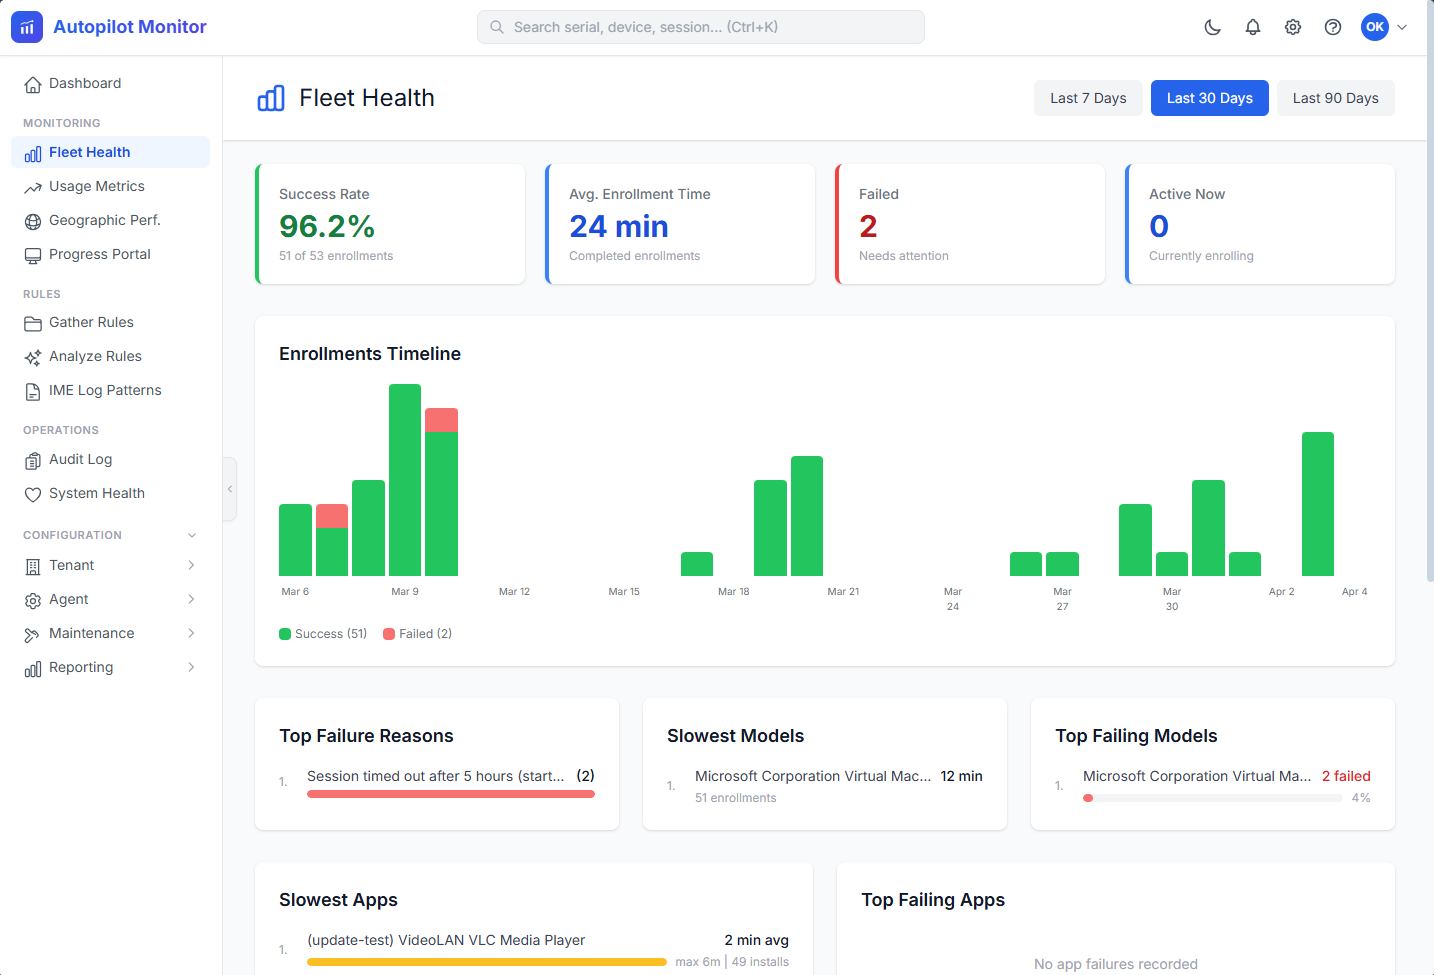
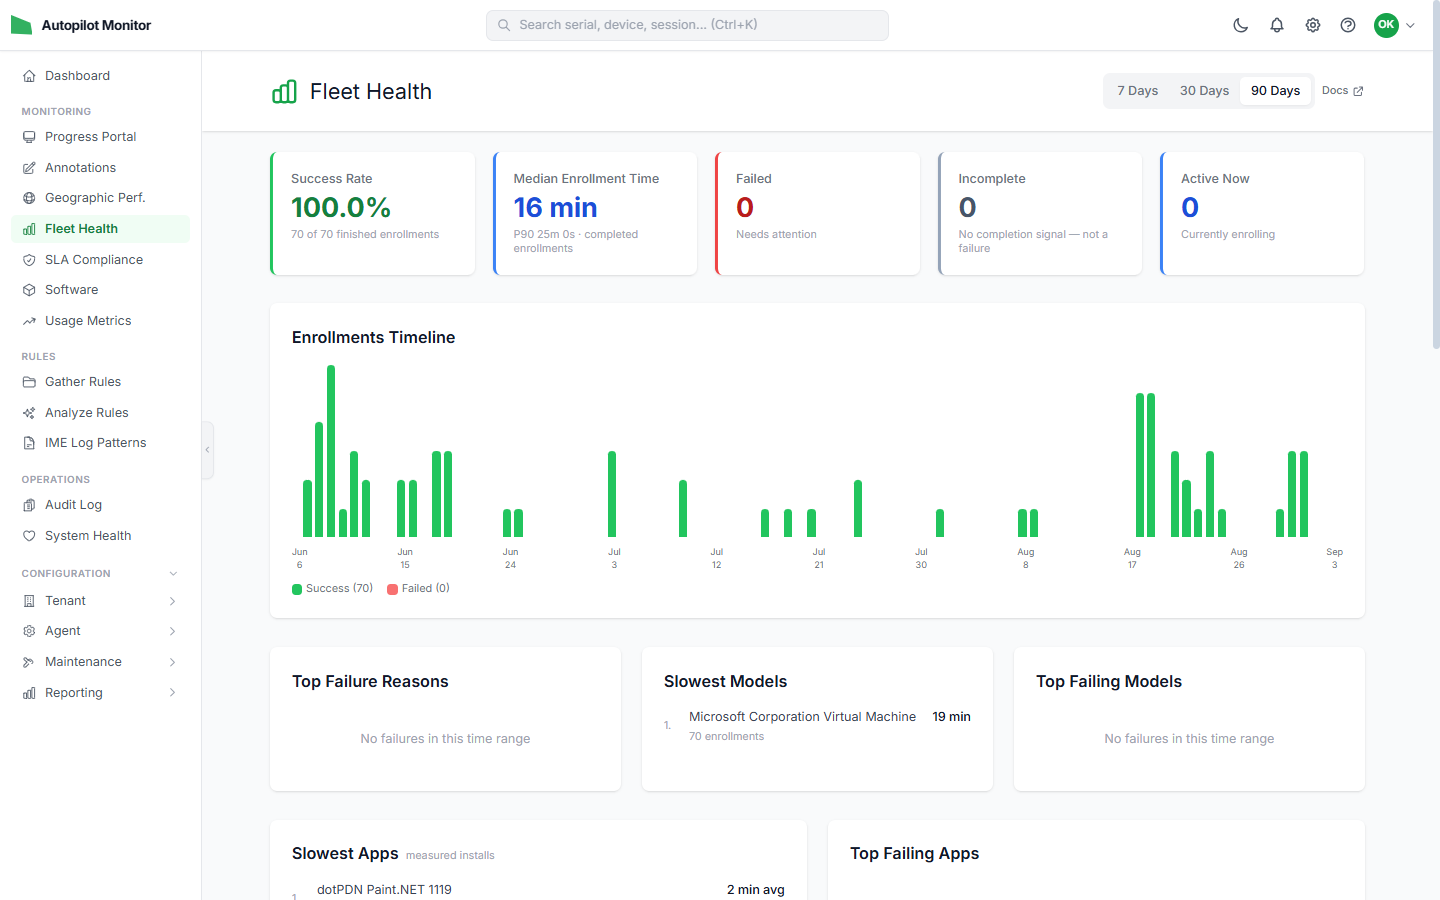
docs(readme): refresh screenshots, add social preview source
The four README screenshots were still from the private preview (old blue
logo, preview banner). Retaken in the light theme with the current logo,
tenant view only, no banner. Fleet Health uses the 90-day window; the geo
map has too few locations in the own tenant to read as a world map.

Also stores the GitHub social preview as source (HTML composition plus the
anonymized dashboard capture it embeds) and the rendered 1280x640 PNG.

diff --git a/.github/assets/social-preview.html b/.github/assets/social-preview.html
@@ -1,0 +1,55 @@
+<!doctype html>
+<html><head><meta charset="utf-8">
+<link rel="preconnect" href="https://fonts.googleapis.com">
+<link href="https://fonts.googleapis.com/css2?family=Inter:wght@400;500;600;700;800&display=swap" rel="stylesheet">
+<style>
+  html,body{margin:0;padding:0;}
+  body{width:1280px;height:640px;overflow:hidden;font-family:Inter,system-ui,-apple-system,"Segoe UI",sans-serif;color:#0f172a;
+    background:
+      radial-gradient(900px 600px at 105% 110%, #dcfce7 0%, rgba(220,252,231,0) 60%),
+      radial-gradient(700px 500px at -10% -10%, #e0f2fe 0%, rgba(224,242,254,0) 60%),
+      linear-gradient(180deg,#ffffff 0%,#f6f8f7 100%);
+    position:relative;}
+  .grid{position:absolute;inset:0;background-image:linear-gradient(rgba(15,23,42,.045) 1px,transparent 1px),linear-gradient(90deg,rgba(15,23,42,.045) 1px,transparent 1px);background-size:40px 40px;mask-image:linear-gradient(180deg,rgba(0,0,0,.7),rgba(0,0,0,0) 85%);}
+  .left{position:absolute;left:72px;top:0;height:640px;width:520px;display:flex;flex-direction:column;justify-content:center;z-index:2;}
+  .brand{display:flex;align-items:center;gap:14px;margin-bottom:26px;}
+  .brand svg{width:44px;height:40px;}
+  .brand span{font-size:22px;font-weight:600;letter-spacing:-.01em;color:#0f172a;}
+  h1{margin:0 0 18px;font-size:50px;line-height:1.06;font-weight:800;letter-spacing:-.035em;}
+  h1 em{font-style:normal;color:#16a34a;}
+  p.tag{margin:0 0 30px;font-size:20px;line-height:1.45;color:#475569;font-weight:400;max-width:480px;}
+  .chips{display:flex;flex-wrap:wrap;gap:10px;margin-bottom:34px;}
+  .chip{display:inline-flex;align-items:center;gap:8px;padding:8px 14px;border-radius:999px;background:#fff;border:1px solid #e2e8f0;box-shadow:0 1px 2px rgba(15,23,42,.05);font-size:15px;font-weight:500;color:#1e293b;}
+  .chip i{width:8px;height:8px;border-radius:50%;background:#22c55e;display:inline-block;}
+  .chip.b i{background:#3b82f6}.chip.p i{background:#8b5cf6}
+  .foot{display:flex;align-items:center;gap:14px;font-size:15px;color:#64748b;font-weight:500;}
+  .foot b{color:#0f172a;font-weight:600;}
+  .foot .dot{width:4px;height:4px;border-radius:50%;background:#cbd5e1;}
+  .shot{position:absolute;left:600px;top:76px;width:1000px;height:640px;border-radius:14px;background:#fff;
+    box-shadow:0 30px 80px -20px rgba(15,23,42,.35),0 0 0 1px rgba(15,23,42,.08);overflow:hidden;z-index:1;}
+  .bar{position:relative;z-index:2;height:34px;background:#f8fafc;border-bottom:1px solid #e2e8f0;display:flex;align-items:center;padding:0 14px;gap:7px;}
+  .bar i{width:10px;height:10px;border-radius:50%;background:#e2e8f0;display:inline-block;}
+  .bar .url{margin-left:12px;flex:0 0 auto;height:20px;padding:0 10px;border-radius:6px;background:#fff;border:1px solid #e2e8f0;font-size:11px;line-height:20px;color:#64748b;}
+  .shot img{position:absolute;left:-214px;top:-16px;width:1440px;height:900px;transform-origin:top left;transform:scale(.94);}
+</style></head>
+<body>
+<div class="grid"></div>
+<div class="left">
+  <div class="brand">
+    <svg viewBox="0 0 209 191" fill="none" xmlns="http://www.w3.org/2000/svg"><path d="M0 180.201L208.401 190.502L188.157 76.2438L5.48363e-06 0L0 180.201Z" fill="#33B161"/></svg>
+    <span>Autopilot Monitor</span>
+  </div>
+  <h1>See every Windows<br>enrollment <em>as it happens</em></h1>
+  <p class="tag">Live session timelines, fleet health, and on-demand diagnostics for Windows Autopilot and Intune.</p>
+  <div class="chips">
+    <span class="chip"><i></i>Live session timeline</span>
+    <span class="chip b"><i></i>Fleet health</span>
+    <span class="chip p"><i></i>MCP server for AI troubleshooting</span>
+  </div>
+  <div class="foot"><b>autopilotmonitor.com</b><span class="dot"></span>Open source<span class="dot"></span>Free Community plan</div>
+</div>
+<div class="shot">
+  <div class="bar"><i></i><i></i><i></i><span class="url">portal.autopilotmonitor.com/dashboard</span></div>
+  <img src="social-preview-dashboard.png" alt="">
+</div>
+</body></html>
